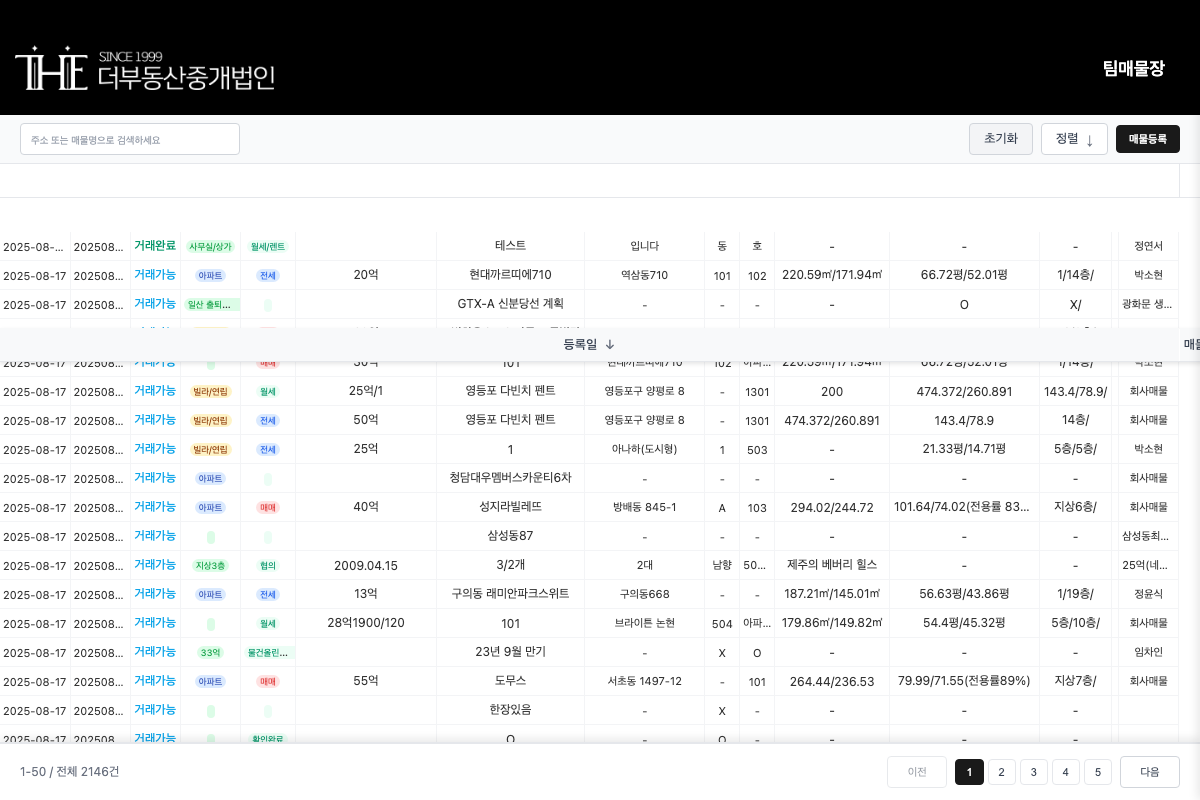
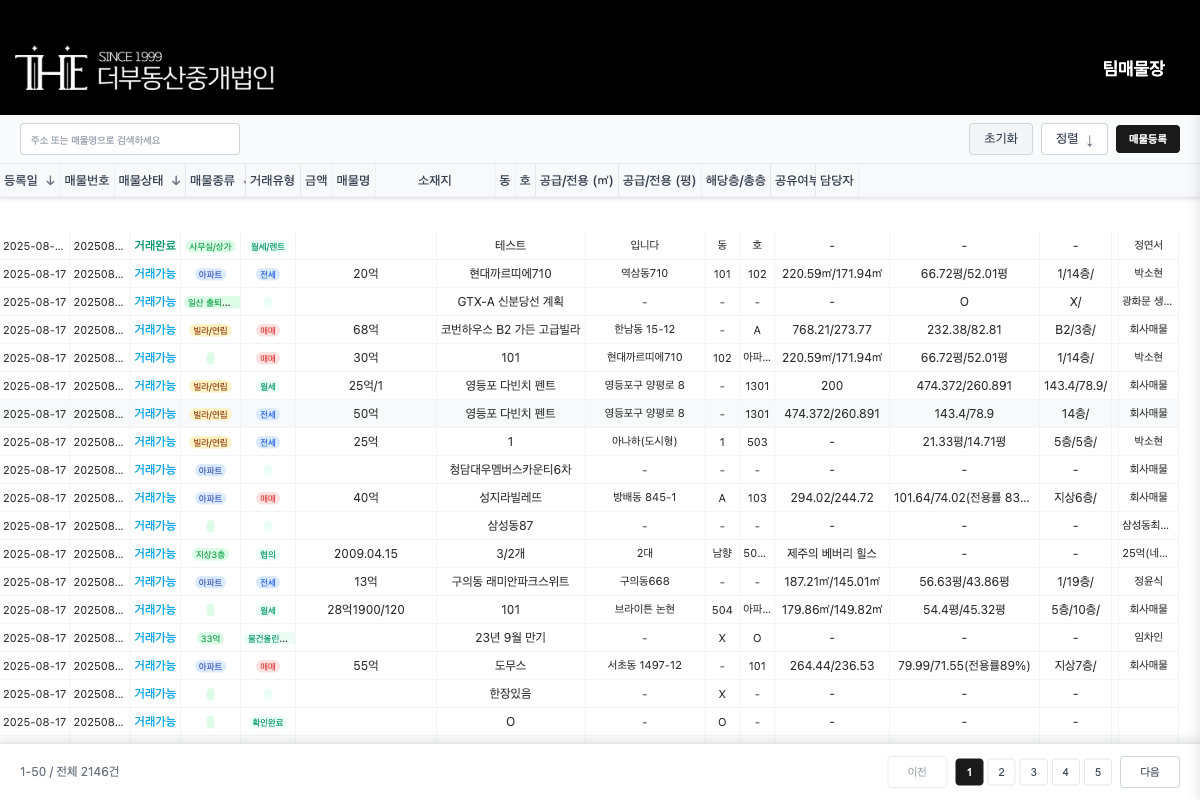
fix: 테이블 헤더와 데이터 사이의 불필요한 34px 공백 제거
- TBODY의 padding-top: 34px 제거
- table-container의 padding-top: 34px 제거
- TBODY display를 table-row-group으로 복원

이제 헤더와 데이터가 바로 붙어서 표시됩니다.

🤖 Generated with [Claude Code](https://claude.ai/code)

diff --git a/playwright-report/index.html b/playwright-report/index.html
@@ -74,4 +74,4 @@ Error generating stack: `+u.message+`
   </body>
 </html>
 <script>
[2 lines of base64/hex data omitted]

diff --git a/tests/check-gap-between-header-and-data.spec.js b/tests/check-gap-between-header-and-data.spec.js
@@ -1,0 +1,78 @@
+import { test, expect } from '@playwright/test';
+
+test('헤더와 데이터 사이 공백 확인', async ({ page }) => {
+  console.log('🔍 헤더와 데이터 사이 공백 분석');
+  
+  await page.setViewportSize({ width: 1200, height: 800 });
+  await page.goto('https://gma3561.github.io/The-realty_hasia/');
+  await page.waitForTimeout(5000);
+  
+  const gapAnalysis = await page.evaluate(() => {
+    const thead = document.querySelector('.data-table thead');
+    const tbody = document.querySelector('.data-table tbody');
+    const firstRow = document.querySelector('.data-table tbody tr:first-child');
+    const tableContainer = document.querySelector('.table-container');
+    
+    if (!thead || !tbody || !firstRow) return null;
+    
+    const theadRect = thead.getBoundingClientRect();
+    const tbodyRect = tbody.getBoundingClientRect();
+    const firstRowRect = firstRow.getBoundingClientRect();
+    const containerRect = tableContainer.getBoundingClientRect();
+    
+    const theadStyle = window.getComputedStyle(thead);
+    const tbodyStyle = window.getComputedStyle(tbody);
+    const containerStyle = window.getComputedStyle(tableContainer);
+    
+    return {
+      thead: {
+        y: theadRect.y,
+        bottom: theadRect.bottom,
+        height: theadRect.height,
+        position: theadStyle.position,
+        top: theadStyle.top
+      },
+      tbody: {
+        y: tbodyRect.y,
+        top: tbodyRect.top,
+        height: tbodyRect.height,
+        paddingTop: tbodyStyle.paddingTop,
+        marginTop: tbodyStyle.marginTop,
+        display: tbodyStyle.display,
+        position: tbodyStyle.position
+      },
+      firstRow: {
+        y: firstRowRect.y,
+        top: firstRowRect.top,
+        height: firstRowRect.height
+      },
+      container: {
+        paddingTop: containerStyle.paddingTop,
+        y: containerRect.y
+      },
+      gaps: {
+        theadToTbody: tbodyRect.y - theadRect.bottom,
+        theadToFirstRow: firstRowRect.y - theadRect.bottom,
+        containerPadding: containerStyle.paddingTop
+      }
+    };
+  });
+  
+  console.log('분석 결과:');
+  console.log('THEAD 위치:', gapAnalysis.thead);
+  console.log('TBODY 위치:', gapAnalysis.tbody);
+  console.log('첫 번째 행 위치:', gapAnalysis.firstRow);
+  console.log('컨테이너 설정:', gapAnalysis.container);
+  console.log('\n공백 분석:');
+  console.log(`THEAD 하단에서 TBODY까지: ${gapAnalysis.gaps.theadToTbody}px`);
+  console.log(`THEAD 하단에서 첫 데이터까지: ${gapAnalysis.gaps.theadToFirstRow}px`);
+  console.log(`컨테이너 padding-top: ${gapAnalysis.gaps.containerPadding}`);
+  
+  if (gapAnalysis.gaps.theadToFirstRow > 5) {
+    console.log(`\n❌ 문제: 헤더와 데이터 사이에 ${gapAnalysis.gaps.theadToFirstRow}px의 불필요한 공백이 있습니다!`);
+    
+    if (gapAnalysis.tbody.paddingTop !== '0px') {
+      console.log(`원인: TBODY의 padding-top이 ${gapAnalysis.tbody.paddingTop} 설정되어 있습니다.`);
+    }
+  }
+});

diff --git a/index.html b/index.html
@@ -600,10 +600,9 @@
             thead.style.background = '#f8f9fa';
             thead.style.width = '100%';
             
-            // TBODY에 padding-top 추가하여 THEAD 공간 확보
-            const theadHeight = thead.offsetHeight || 34;
-            tbody.style.display = 'block';
-            tbody.style.paddingTop = `${theadHeight}px`;
+            // TBODY 스타일 초기화 (padding 제거)
+            tbody.style.display = 'table-row-group';
+            tbody.style.paddingTop = '0';
             
             // 테이블 컨테이너 스크롤 시 THEAD 위치 조정
             tableContainer.addEventListener('scroll', () => {

diff --git a/styles.css b/styles.css
@@ -191,7 +191,7 @@ body {
     flex: 1 1 auto;
     overflow-y: scroll;
     padding-bottom: 70px; /* 고정 페이지네이션을 위한 하단 패딩 */
-    padding-top: 34px; /* 테이블 헤더 공간 확보 */
+    padding-top: 0; /* padding 제거 */
     overflow-x: auto;
     position: relative;
     -webkit-overflow-scrolling: touch; /* iOS 스크롤 부드럽게 */
